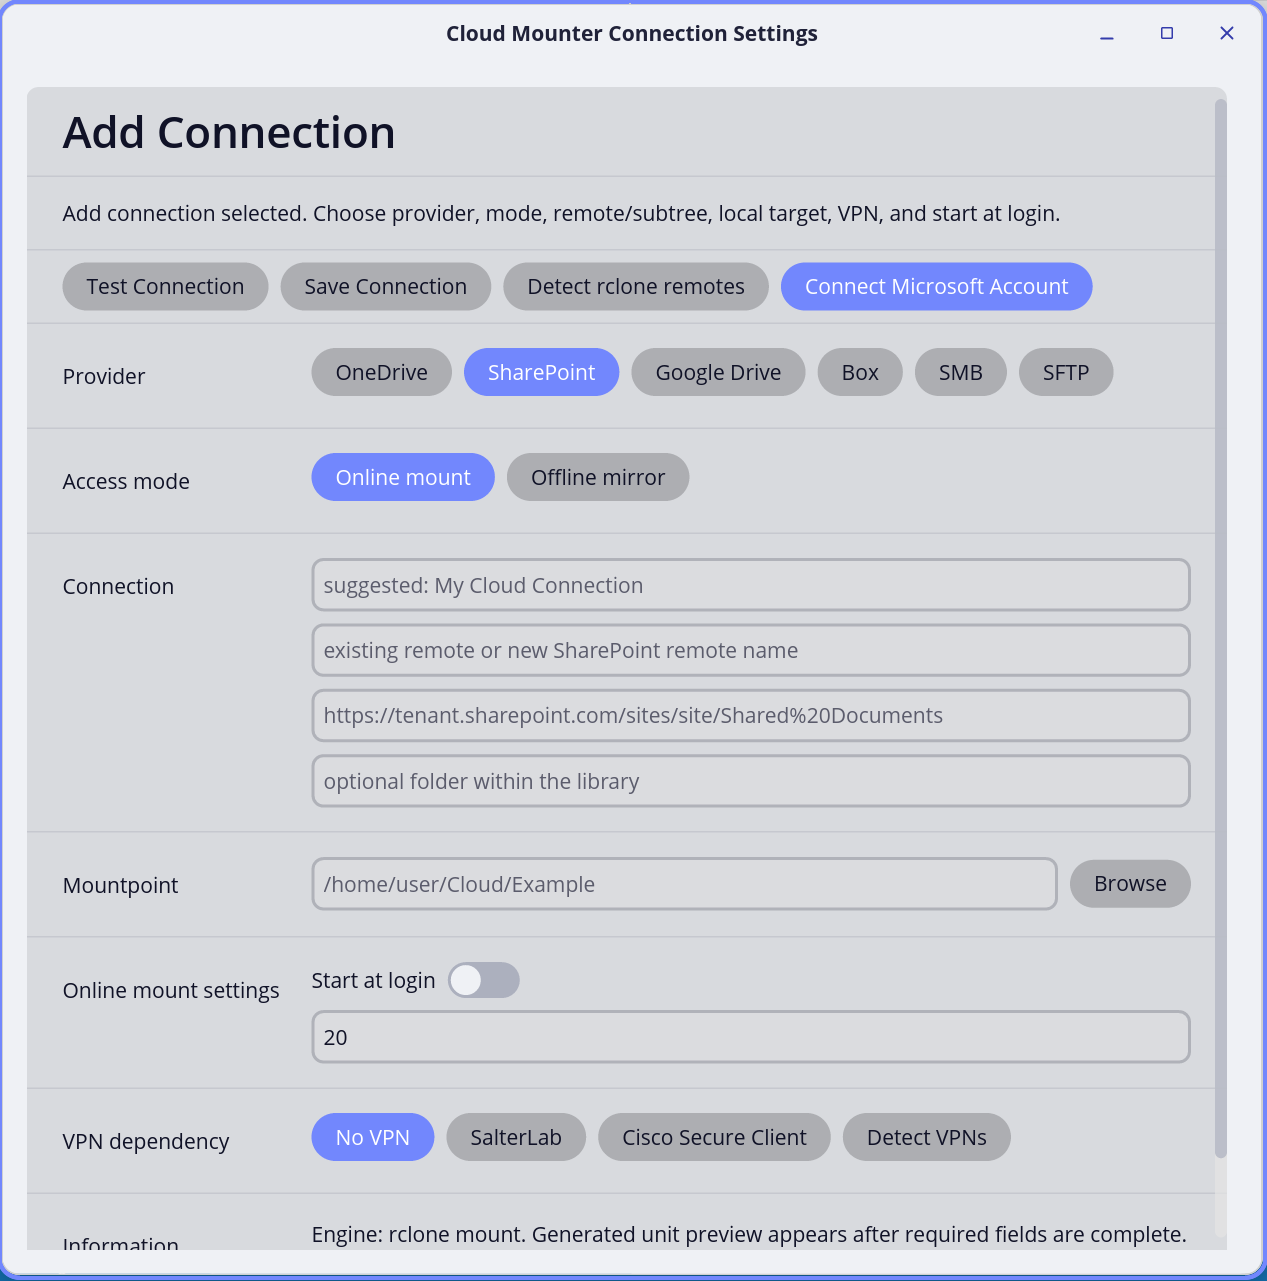
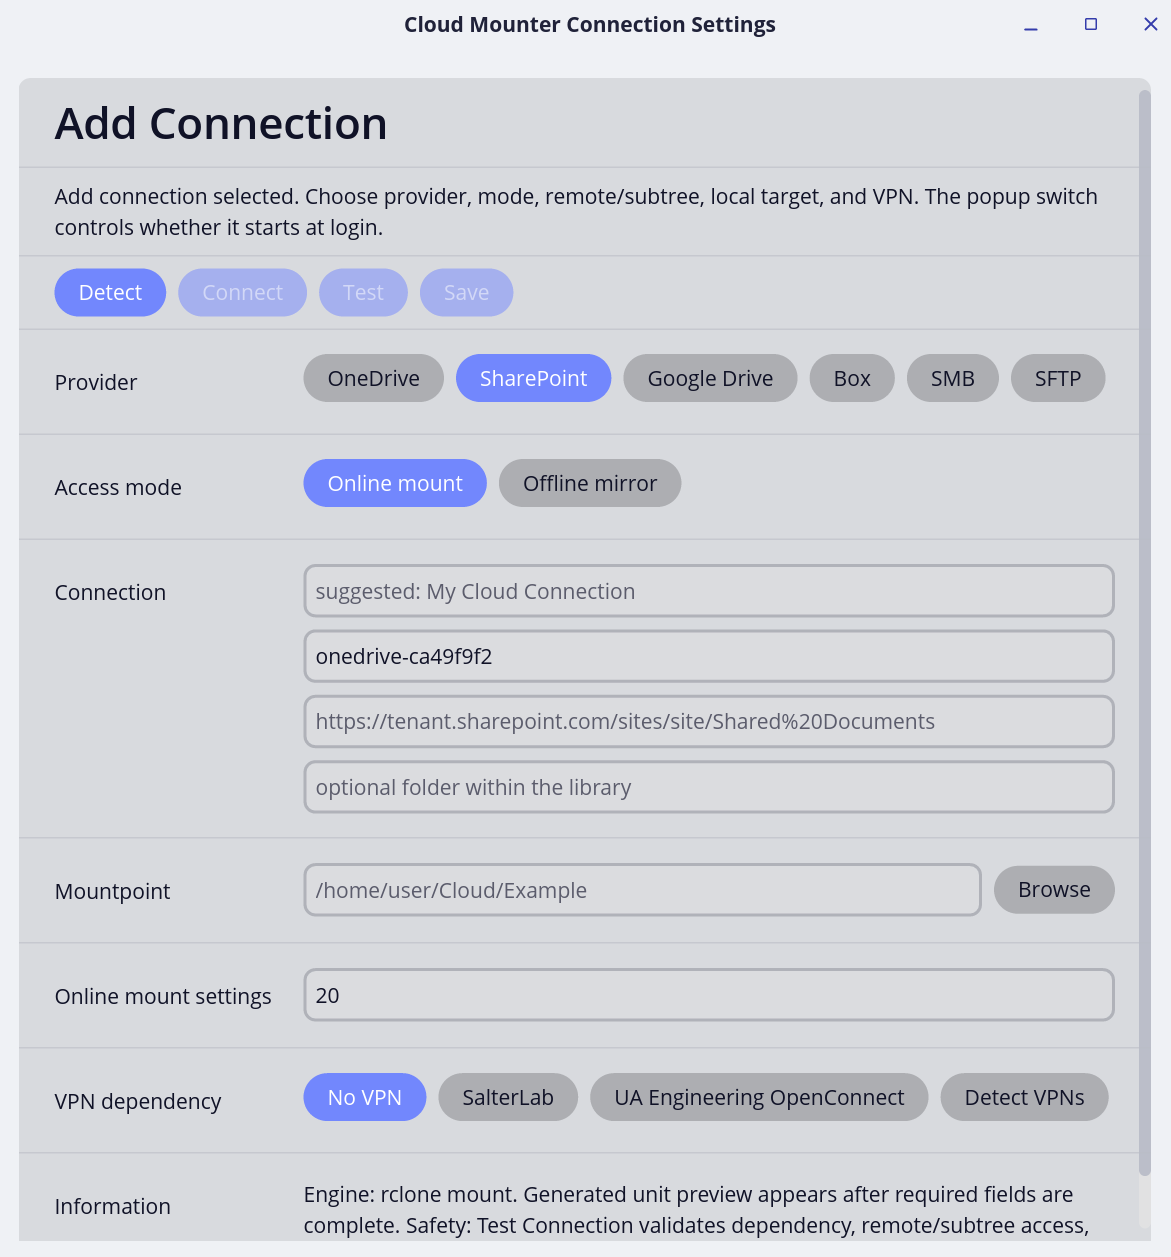
Refresh guides, screenshots and COSMIC submission draft

diff --git a/Cosmic Aplet Repository Pull Request.md b/Cosmic Aplet Repository Pull Request.md
@@ -1,0 +1,183 @@
+# Cloud Mounter
+
+Written by Urs Utzinger October 23, 2026 for a request to include Cloud Mounter in the COSMIC™ applet repository.
+
+Cloud Mounter is an applet for the COSMIC™ desktop for managing storage
+connections to **OneDrive**, **SharePoint**, **Google Drive**, **Box**, 
+**SMB**, and **SFTP**. It supports direct **Online mount** and **Offline mirror** mode.
+
+## Purpose
+- **What does Cloud Mounter let users do?**
+
+    The applet simplifies mounting cloud storage. It authenticates to user's 
+    online storage services and creates systemd units that manage the mount points or synchronize mirrors. The user can turn storage connections on or off to reduce file manager stalls when the network is slow or unavailable. 
+
+- **Why does it belong in the COSMIC applet repository?**
+
+    Cloud Mounter is a COSMIC desktop extension. The COSMIC applet repository is the ideal flatpak host.
+
+## Package
+- **Which version and source commit does the manifest build?**
+
+    The manifest points to version [0.5.5](https://github.com/uutzinger/cosmic-ext-applet-mounter/tree/v0.5.5) and application commit [13e204ec93049587611978c0cfbad0f9e0a5968c](https://github.com/uutzinger/cosmic-ext-applet-mounter/tree/13e204ec93049587611978c0cfbad0f9e0a5968c)
+
+- **Which runtime does it use?**
+    - **`Freedesktop Platform`**, version 25.08 provides the Runtime libraries to run the app  
+    - COSMIC BaseApp provides the build base
+    - Freedesktop SDK, version 25.08 provides the build tools
+    - Rust SDK extension
+
+- **Which dependencies must users install on the host, which are already present through the OS?**
+    - [**`rclone`**](https://rclone.org/) manages most Online mounts and Offline mirrors, 1.74.3 or newer.
+    - [**`onedriver`**](https://github.com/jstaf/onedriver) manages OneDrive Online mount, 0.15.0 or newer.
+    - [`fusermount3`](https://github.com/libfuse/libfuse) / FUSE 3 is used for Online mounts and already part of the operating system.
+    - [NetworkManager](https://networkmanager.dev/) checks network and VPN readiness over D-Bus and is already part of the operating system.
+    - systemd user manager & systemd logind is used for services and timer control and optional sleep cleanup over D-Bus. It is already part fo the operating system services.
+
+    The dependencies  can be installed with an on the applets Github repository [install script](https://raw.githubusercontent.com/uutzinger/cosmic-ext-applet-mounter/master/scripts/install-dependencies.sh) It supports Debian/Ubuntu/Pop!_OS, Fedora, Arch Linux, openSUSE and Gentoo.
+
+    Dependency installation is not automatic with Flatpak installation of the applet.
+
+## Permissions
+
+The applets reaches outside its isolated environment in a restricted and limited manner. The types of **unavoidable invocations** of external host commands are listed below:
+
+| Executable | Role and Restrictions |
+|---|---|
+| `flatpak-spawn -host` |  Is used on helpers for storage engines and filesystem running in the user session. It implements the reviewed and fixed host requests listed below. It is not an arbitrary UI command endpoint. |
+| `flatpak document-info <portal-path` | Host-path lookup is needed by host mounts and mirrors and services. It is a  `Documents portal` compatibility lookup for Documents portal v4. If v5 is available, this fallback is not used. |
+| `rclone` |  Is used for most storage setups and access. The applet creates rclone configuration, authentication, storage operations, and a private remote control client. It uses validated rclone connection names and remote/local paths. It redacts credentials. It assures ownership of mounts, folders and processes before altering them. It checks connections before copying data. It applies checks when recovering from interrupted or failed operations. Systemd D-Bus starts, stops and monitors rclone user services. |
+| `onedriver` |  Is used for Online OneDrive access and makes mounts available to user services. It keeps track of mount connections. It validates mounting location. Systemd D-Bus is used to manage its background services for starting, stopping, checking if its running, or failure. |
+| `fusermount3` | Is used to cleanly detach mounts or start a confirmed lazy recovery. It checks ownership of the mount. It executes only when an eligible recovery state is present. |
+| `cat /proc/self/mountinfo` |  Is used to read host mount information. It uses a fixed read-only request. It reads the information in the background and limits the amount of output it collects. |
+| `mountpoint --quiet <path>` |  It checks host mount readiness before starting or stopping connections. It only accesses validated mount points and uses fixed commands. |
+| `find` |  The applet checks directories and prevents mounting over existing files. The applet also provides optional pre loading of file metadata into the directory cache of Online mounts. |
+
+- **Why does it need NetworkManager and systemd access?**
+
+    The applets interacts with Network Manager to start and stop VPNs associated with a connection over D-Bus. It discovers existing VPN profiles. It also discovers metered connections and stops syncing mirrors that have such setting enabled. 
+    
+    Systemd user manager manages the applets background services and schedules and maintains timers. 
+    
+    Systemd logind detects preparation for sleep and starts optional connection unmounting before the host computer goes to sleep and restarts them after wake up.
+
+- **Why does it need host execution?**
+
+    The applets uses rclone and onedriver for cloud storage access. These programs run on the host and create mounts and mirrors accessible to other applications. The applet uses flatpak spawn to run these commands as listed below and above in Permissions.
+
+- **How are local directory permissions granted?**
+
+    This programs `rclone` and `onedriver` run with normal user permission. They receive the host paths through their configuration which was set by the applets configuration editor. The user can use a browser to select storage paths which then are stored in the host programs configuration.
+
+    The applet receives folder path by a user selected folder picker. It does not have blanket access to users' home directory.
+
+## Testing
+
+- **Identify the installed Flatpak candidate.**
+
+  Version [0.5.5](https://github.com/uutzinger/cosmic-ext-applet-mounter/tree/v0.5.5)
+
+- **Summarize the test operations actually exercised.**
+
+    Testing begins on the developer's computer using a source built version with `just install-user`. Validation covers the user interface, connection settings and supported storage providers with each configuration tested and results recorded.
+
+    The developer tests
+    - Google Drive and Box storage on corporate account both for mirroring and mounting.
+    - Google Drive on personal account for mirroring and mounting
+    - OneDrive mirror and online on personal and corporate accounts.
+    - Sharepoint mount and mirror on corporate account
+    - SMB with VPN on corporate storage server
+    - SFTP mount of an externally hosted machine
+
+    The developer also tests other workflows such as mounting and unmounting and starting and stopping mirrors.
+
+    Debian packages are built through Github Actions and tested separately in a PopOS virtual machine.
+
+    The Flatpak candidate is also built with Github Actions and installed on the same virtual machine. Tests cover the user interface, rclone mirror and mount and the onedriver online mount.
+
+    Detailed test results and outstanding checks are recorded in [`Task List'](https://raw.githubusercontent.com/uutzinger/cosmic-ext-applet-mounter/master/Task%20List.md) and ['Task List Completion Notes'](https://raw.githubusercontent.com/uutzinger/cosmic-ext-applet-mounter/master/Task%20List%20Completion%20Notes.md). These lists also contain the development steps and decisions and are AI generated recordings of the developers instructions and interaction with the agent. The agents behavior is defined in [AGENTS.md](AGENTS.md)
+    
+    Previous release Task Lists and Completion notes are available in [archived documentation](https://github.com/uutzinger/cosmic-ext-applet-mounter/tree/master/docs/archive).
+
+- **State relevant limitations and skipped checks.**
+
+    - The applet does not a provide a multi user file access and locking mechanism.
+    - ARM64 support is not tested
+    - Sleep and Wake behavior for unmounting and remounting is not thoroughly tested.
+    - Testing of whole root mirrors was not conducted. Only subfolders.
+    - File restoration in the recovery process of mirrors was not tested.
+
+## Appendix: List of commands interacting with systems outside the Flatpak isolation
+
+The following external commands are used in version 0.5.5. They include direct host-command requests and commands launched by generated user services.
+
+For completeness, the list below is generated with help from AI.
+
+### Host execution and folder-path compatibility
+
+| Command pattern | Purpose |
+|---|---|
+| `flatpak-spawn --host <fixed-command> ...` | Runs the host rclone and onedriver and helper commands listed in this appendix. |
+| `flatpak document-info <portal-path>` | Resolves a selected folder's host path on Documents portal v4. Portal v5+ uses D-Bus; this fallback is not used for general portal errors. |
+
+### Storage engines
+
+| Command pattern | Purpose |
+|---|---|
+| `rclone config dump` |  Host remote discovery and provider/authentication inspection. |
+| `rclone config create <remote> <backend> ...` |  Separate Google Drive, Box, SMB, SFTP, SharePoint, or OneDrive mirror remote setup. |
+| `rclone config update <remote> ...` |  Provider updates and Microsoft OAuth continuation. |
+| `rclone config password <remote> <field> <secret>` |  Engine-owned obscured credential storage; arguments are redacted. |
+| `rclone config delete <remote>` |  Confirmed unused-remote removal or setup rollback. |
+| `rclone lsjson <remote:path> --stat` |  Bounded OneDrive token refresh and selected-directory access; metadata only. |
+| `rclone lsjson <remote-or-local> --recursive --files-only --no-mimetype --filter-from <filters>` |  Explicit OneDrive Preview estimate only; two read-only inventories, each 30 seconds/4 MiB, under coordinator lock. Same scoped host gateway and owned paths; no new permission. Remove when an equivalent reviewed structured engine API replaces spawning. |
+| `rclone lsf <remote:path> --max-depth 1` |  Read-only remote/library access checks, including Google/Box post-OAuth verification (20 seconds, 16 KiB capture). Owner: shared app engine runner; same native/host-gateway path and permissions. |
+| `rclone rc --unix-socket <socket> rc/noop` |  Private RC readiness. |
+| `rclone rc --unix-socket <socket> vfs/stats` |  Cache/upload health and sleep safety. |
+| `rclone rc --unix-socket <socket> vfs/queue` |  Structured queued/in-progress counts. |
+| `rclone rc --unix-socket <socket> vfs/refresh recursive=<false/true> _async=true` |  Tracked Google root-first then recursive directory refresh, sharing one deadline; fast-list belongs to VFS creation. |
+| `rclone rc --unix-socket <socket> job/status jobid=<id>` / `job/stop jobid=<id>` |  Refresh observation/cancellation. |
+| `rclone bisync <remote> <local> ... [--resync] [--dry-run]` |  The coordinator's fixed preview/initial/manual/scheduled transactions. |
+| `rclone mkdir <remote-recovery-day>` |  Prepare the selected engine's recovery area. |
+| `rclone cat <remote-anchor-or-owner>` |  Access-anchor and ownership verification. |
+| `rclone lsf <remote-recovery-day>` |  Prove an unmarked recovery day is empty before claiming it. |
+| `rclone copyto <private-owner-file> <remote-owner-marker>` |  Publish applet ownership. |
+| `rclone check <remote> <local> --checksum --filter-from <filters>` |  SharePoint post-convergence verification; OneDrive initial/manual verification without convergence workaround. |
+| `rclone lsf --dirs-only --max-depth 1 <remote-recovery-root>` |  Inspect retention candidates after successful synchronization. |
+| `rclone purge <verified-owned-expired-day>` |  Remove only validated, applet-owned expired remote recovery data. |
+| `onedriver --auth-only --config-file <file> --cache-dir <dir> <mountpoint>` |  Engine-owned Online OneDrive authentication; validation otherwise inspects metadata. |
+
+### FUSE and host inspection
+
+| Command pattern | Purpose |
+|---|---|
+| `fusermount3 -u <mountpoint>` | Clean low-level FUSE detach before stopping the owning unit. |
+| `fusermount3 -uz <mountpoint>` | Confirmed lazy recovery only in an eligible Online state. |
+| `cat /proc/self/mountinfo` | Inspect the host namespace visible to ordinary host applications. |
+| `mountpoint --quiet <path>` | Host mount/root readiness. |
+| `find <path> -maxdepth 0 -type d -print` | Validate an ordinary host directory. |
+| `find <path> -mindepth 1 -maxdepth 1 -print -quit` | Prevent covering nonempty local data with a mount. |
+| `find -P <mountpoint> -xdev ... -type d ...` | Bounded, directory-only preload with depth/exclusion policy. |
+
+### VPN and OpenConnect authentication
+
+VPN control uses D-Bus. If OpenConnect authentication is desired the user can install it with an optional script. Then the applet uses nm-agent and OpenConnects user service as described below.
+
+| Service or component | Purpose |
+|---|---|
+| NetworkManager D-Bus | Discovers saved VPN profiles, activates and deactivates connections, and monitors their state. |
+| systemd user-manager D-Bus | Starts or restarts the user-installed `cosmic-mounter-openconnect-agent.service` when needed for OpenConnect authentication. |
+| `nm-applet` secret agent and NetworkManager OpenConnect plugin/dialog | Handle VPN credentials and authentication prompts. These are external authentication dependencies; the applet does not launch them through direct host-command requests. |
+
+### Commands launched by host services
+
+These commands run through the applets generated systemd user services rather than direct
+host-command requests from the applet. They are controlled through D-Bus.
+
+| Command pattern | Purpose |
+|---|---|
+| `rclone mount ...` | Provides Online cloud mounts accessible to host applications. |
+| `onedriver --config-file <file> --cache-dir <dir> <mountpoint>` | Provides Online OneDrive mounts. |
+| `/usr/bin/flatpak run --command=<worker> <app-id> <fixed-operation> <connection-id>` | Starts the app's scheduled synchronization worker or readiness/mount guards. |
+
+

diff --git a/docs/build-from-source.md b/docs/build-from-source.md
@@ -70,53 +70,3 @@ without logging out:
 killall cosmic-panel
 ```
 restarts the panel and loads the updated applet.
-
-Release preparation: `scripts/build_release.sh` creates/pushes the version tag
-and explicitly starts one Debian matrix build; tag pushes do not auto-build.
-Use `--run-id <id>` to reuse a successful build at the exact same commit instead.
-It downloads artifacts without publishing. Finalize metadata before that build;
-acceptance receipts alone do not require recompiling an unchanged source.
-For interrupted preparation, use `--resume --run-id <id>` from the original
-source; an existing matching tag is not recreated or pushed again. Without a
-selected run, resumption refuses to start another build.
-
-After package acceptance and separate publication approval, dispatch
-**Promote verified release artifacts** (`publish-release.yml`) on the accepted
-tag with `build_run_id=<id>` and `accepted=true`. This verifies source/run identity,
-six unexpired artifacts, checksums and package identities, then publishes those
-existing packages without building again. Inspection-only local equivalent:
-`python3 scripts/promote_release.py v<version> <run-id>` from a clean checkout
-of that tag. Adding `--publish --accepted` requires publication approval.
-Expired/missing artifacts or changed source require a new accepted build, never
-a silent substitution. Do not run tag/publish commands without approval.
-Release 0.5.3 targets native source/Debian delivery; final Flatpak is a 0.5.4 gate.
-
-Generated packages belong in `target/artifacts/`: versioned release sets in
-`v<version>/`, distinct local builds in `candidates/`, and workflow downloads
-in run-specific folders. `scripts/run_github_linux_build.sh` defaults to
-`target/artifacts/ci-<run-id>/`; `--download-dir` overrides it.
-
-Build/release tools save private `task.log` and `summary.json` under
-`target/task-runs/` (or a new `--log-dir`). Return the concise result/summary path
-for operator handoffs. Hosted retrieval resumes via `--run-id <id>` or
-`--resume-report <summary.json>` without another dispatch; existing downloads
-are reused only after receipt/checksum verification. Full output is not streamed.
-See [script catalog](../scripts/README.md#logs-summaries-and-operator-handoff).
-Hosted promotion retains summary/checksum receipts as workflow artifacts; private
-raw task logs are not uploaded automatically.
-
-`just stage` installs into `target/stage/usr` and does not modify the host
-system. `just metadata-check` reports known COSMIC-specific freedesktop validation
-warnings without failing. Use `just metadata-check-strict` for the raw result
-and `just metadata-check-net` to check published URLs. `just deb` builds an
-unsigned Debian package in the parent directory.
-
-## Flatpak Packaging and Publication
-
-The Flatpak has been tested locally but is not yet published through a public
-remote. The manifest, build steps, and permission rationale are in the
-[Flatpak packaging guide](../packaging/flatpak/README.md). It runs storage tools on
-the host, so those dependencies must be installed there.
-
-Native and Flatpak installations share connection configuration and generated
-services. Stop one before starting the other to avoid competing operations.

diff --git a/Task List Completion Notes.md b/Task List Completion Notes.md
@@ -3143,3 +3143,26 @@ This verifies the image artifact, not installed applet behavior.
 Upstream fetch and divergence check exit 0, result 0/0. Next: commit intended
 files, fetch again immediately before push and verify remote identity. Leave
 Add Connection/PopUp image changes and the PR draft local.
+
+## Minor documentation and screenshot push preparation — October 23, 2026
+
+Operator authorizes documentation, screenshots and the PR draft together.
+Included the operator's build guide/OpenConnect deletions, Add Connection image,
+new PopUp image and PR draft. Corrected the task-list reference to the draft's
+actual filename and pointed README at the new PopUp image. Preserved PR draft
+wording and existing whitespace; removed one new build-guide blank line at EOF.
+This commits a draft only; it does not submit a repository PR.
+
+Checks (exit 0): PNG signature/chunk CRC/decompression validation for both
+screenshots; visual image inspection; `python3 tests/repo_hygiene_test.py`
+(four passing tests); `git diff --check` for tracked edits; upstream fetch and
+divergence check (0/0). The initial whitespace check found the extra build-guide
+EOF line; it was removed and the check passed. Draft whitespace is retained as
+operator-authored text. No new runtime or installed behavior is claimed.
+
+Reuse gate receipt `target/task-runs/dev-gate-1izh04qa/summary.json`, source
+`a600e562ae2e25defbcda33ebed583453ee3fc8d`, source_dirty true, succeeded, exit 0,
+log `target/task-runs/dev-gate-1izh04qa/task.log`: Rust/script/test inputs remain
+unchanged. Rechecked the affected documentation-link tests separately above.
+Next: commit this scope, fetch immediately before push, reconcile if necessary
+and verify remote identity.

diff --git a/Task List.md b/Task List.md
@@ -525,6 +525,8 @@ evidence. GitHub bundle distribution in 0.5.4 does not imply COSMIC approval.
   changes; operator authors and acknowledges the contribution. Obtain maintainer
   decisions on host execution/dependencies and runtime/portal compatibility.
 
+  See [COSMIC applet repository PR draft](Cosmic%20Aplet%20Repository%20Pull%20Request.md).
+
 ### PR Submissions Rules
 
 **Your app code and its Flatpak manifest:** AI assistance or generation is permitted under that exception.
@@ -629,6 +631,11 @@ all-provider sandbox acceptance.
 
 - [x] Inspect and validate the updated `resources/Settings.png` for the authorized
   commit/push; retain unrelated local images and the PR draft.
+
+## Minor documentation and screenshot updates — October 23, 2026
+
+- [x] Validate the operator's guide edits, PR draft and screenshots for commit/push;
+  preserve draft wording and verify upstream before pushing.
 
 # Cloud Mounter Applet Future Task List
 

diff --git a/docs/openconnect.md b/docs/openconnect.md
@@ -90,11 +90,3 @@ When the applet activates it, the OpenConnect dialog should request the fields
 defined by the gateway—for example, username, password, and `NetID +Method`—and
 then start the second-factor authentication. The exact fields and gateway URL
 are organization-specific.
-
-
-## Existing proprietary client
-
-Cloud Mounter uses NetworkManager/OpenConnect and does not launch or manage
-Cisco Secure Client. An existing proprietary client can remain installed as a
-manual fallback. This setup does not uninstall it. Removing that client is a
-separate operating-system change; decide independently whether you still need it.

diff --git a/README.md b/README.md
@@ -20,7 +20,7 @@ Example screenshots of the applet and its separate windows:
 
 <table>
   <tr>
-    <td><a href="./resources/Popup.png" target="_blank" rel="noopener noreferrer"><img src="./resources/Popup.png" alt="Cloud Mounter popup" width="275"></a></td>
+    <td><a href="./resources/PopUp.png" target="_blank" rel="noopener noreferrer"><img src="./resources/PopUp.png" alt="Cloud Mounter popup" width="275"></a></td>
     <td>
     <a href="./resources/Settings.png" target="_blank" rel="noopener noreferrer"><img src="./resources/Settings.png" alt="Settings window" width="275"></a>
     </td>
